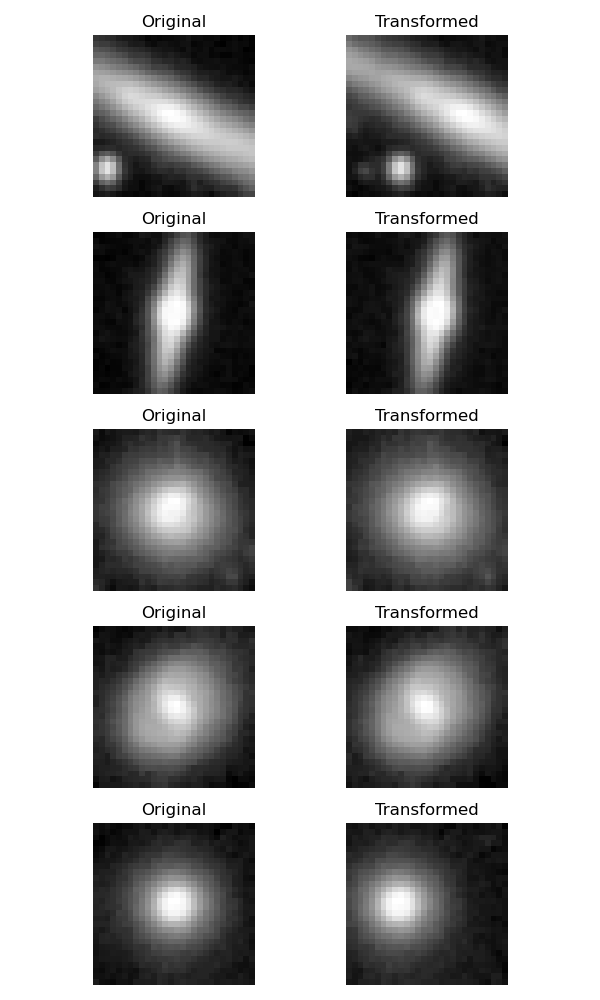
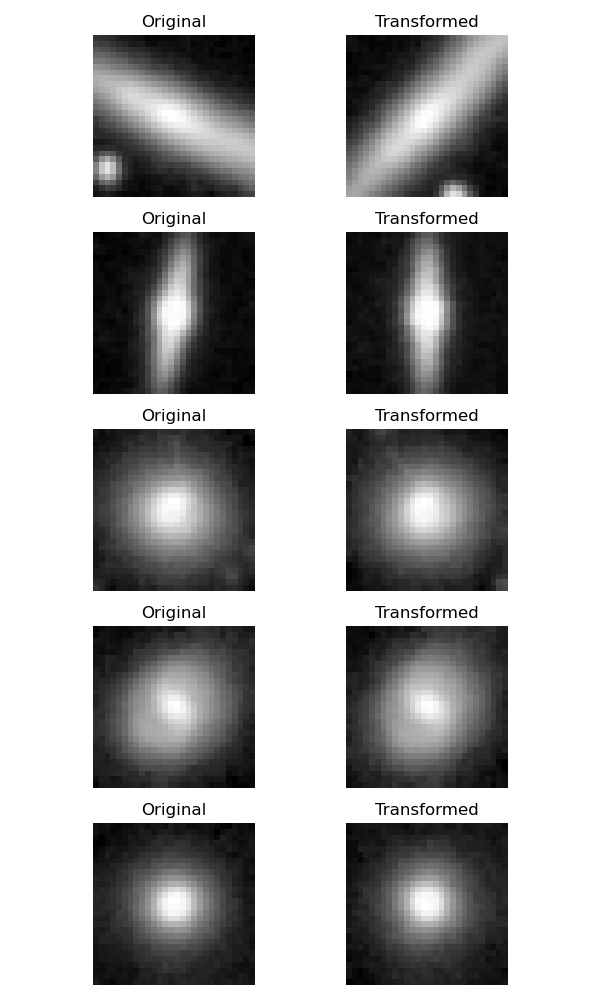
galaxy plotting and image saving final

diff --git a/model/model.py b/model/model.py
@@ -1,5 +1,6 @@
 import numpy as np
 import torch
+import os
 import torch.nn as nn
 import torch.nn.functional as F
 import torchvision
@@ -122,7 +123,8 @@ class EncoderLieTDecoder(BaseModel):
 
         self.i = 0
 
-    def forward(self, x, epsilon=0, tMax=0, zTest=False):
+    def forward(self, x, epsilon=0, tMax=0, zTest=False, out_path=None):
+        self.out_path = out_path
         # Normalize a vector by dividing by its norm:
         a_norm = torch.norm(self.a, p=2)
         a_normed = self.a / a_norm
@@ -146,9 +148,9 @@ class EncoderLieTDecoder(BaseModel):
             t = self.t(torch.cat((x,y), dim=1))
             t = t.squeeze()
 
-        elif epsilon != 0 and tMax == 0 and self.i < 1:
+        elif epsilon != 0 and tMax == 0:
             t = epsilon * torch.ones(x.size(0)).to("cuda:0")
-        elif tMax > 0 and epsilon == 0 and self.i < 1:
+        elif tMax > 0 and epsilon == 0:
             # tMax sets the maximum value of t in the interval [-tMax, tMax]
             # in which the number of steps agrees with the batch size:
             t = torch.linspace(-tMax, tMax, x.size(0)).to("cuda:0")
@@ -175,7 +177,7 @@ class EncoderLieTDecoder(BaseModel):
         # field form of the generator G) on the gaussian blob. 
 
         if zTest and self.i < 1:
-            ground_truth_a = torch.tensor([1, 0, 0,0,0,0], device=self.a.device, dtype=torch.float32)
+            ground_truth_a = torch.tensor([0, 0, -1,0,1,0], device=self.a.device, dtype=torch.float32)
         
             # Calculate G loss
             g_loss = self.calculate_g_loss(ground_truth_a)
@@ -189,8 +191,8 @@ class EncoderLieTDecoder(BaseModel):
                 print(f"  Non-Affine MSE: {g_loss['g_nonaffine_mse']:.4f} (Neg: {g_loss['neg_g_nonaffine_mse']:.4f})")
 
             # Visualize the generator field and eigenvectors
-            self.visualize(z, z_t, t, a_normed, ground_truth_a, plot_eigen=False)
-            self.plot_patches(z, z_t, t, ground_truth_a)
+            self.visualize(z, z_t, t, a_normed, ground_truth_a, plot_eigen=False, out_path=self.out_path)
+            self.plot_patches(z, z_t, t, ground_truth_a, out_path=self.out_path)
             self.i += 1
         ################################    
         x_t = x_t.view(data_shape)
@@ -373,7 +375,7 @@ class EncoderLieTDecoder(BaseModel):
             'neg_g_nonaffine_mse': neg_g_nonaffine_mse
         }
 
-    def visualize(self, z, z_t, t, a_normed, ground_truth_a, plot_eigen=False):
+    def visualize(self, z, z_t, t, a_normed, ground_truth_a, plot_eigen=False, out_path=None):
         # Generator visualization
         grid_size = 10
         # Get d from square root of latent dimension
@@ -424,19 +426,45 @@ class EncoderLieTDecoder(BaseModel):
         min_g_mse = [g_loss['g_mse'], g_loss['neg_g_mse']][argmin_g]
         min_drift_mse = [g_loss['g_drift_mse'], g_loss['neg_g_drift_mse']][argmin_g]
         min_diffusion_mse = [g_loss['g_diff_mse'], g_loss['neg_g_diff_mse']][argmin_g]
-
+        is_complex = np.any(np.iscomplex(eigenvalues))
         # Add MSE information to the title
-        title_info = (
-            f"MSE: {min_g_mse:.4f}, Drift: {min_drift_mse:.4f}, Diff.: {min_diffusion_mse:.4f}"
-        )
-        plt.title(f"{title_info}")
+        # --- BEGIN PATCH: Replace TODO title with discriminant/trace/det logic ---
+        trace = np.trace(diffusion)
+        det = np.linalg.det(diffusion)
+        discriminant = trace**2 - 4 * det
+
+        if det < 0:
+            desc = "Saddle point (real eigs)"
+        elif discriminant < 0:
+            if trace < 0:
+                desc = "Spiral sink (complex eigs)"
+            elif trace > 0:
+                desc = "Spiral source (complex eigs)"
+            else:
+                desc = "Center (circular flow)"
+        else:
+            if trace > 0:
+                desc = "Unstable node (real eigs)"
+            elif trace < 0:
+                desc = "Stable node (real eigs)"
+            else:
+                desc = "Degenerate node / shear"
+
+        plt.title(desc, fontsize=12)
+        # --- END PATCH ---
 
         # plt.title("Generator Vector Field with Eigenvectors")
         plt.xlabel("X")
         plt.ylabel("Y")
         plt.grid(True)
         # plt.legend(loc='upper left', fontsize=8)
-        plt.show()
+        if out_path is not None:
+            os.makedirs(out_path, exist_ok=True)
+            filename = 'visualize.png'  # or 'patches.png', depending on the function
+            plt.savefig(os.path.join(out_path, filename), bbox_inches='tight')
+            plt.close()
+        else:
+            plt.show()
 
     def taylor_loss(self, combined_data, order=1):
         # Normalize a vector by dividing by its norm:
@@ -477,12 +505,12 @@ class EncoderLieTDecoder(BaseModel):
 
         return x_t, y
     
-    def plot_patches(self, z, z_t, t, ground_truth_a=None):
+    def plot_patches(self, z, z_t, t, ground_truth_a=None, out_path=None):
         latent_dim_sqrt = int(np.sqrt(self.latent_dim))
         print(z.shape, z_t.shape, t.shape)
 
         # Initialize the figure with 6 rows and 11 columns
-        fig, axs = plt.subplots(6, 11, figsize=(20, 12))  # Adjusted height for better paper fit
+        fig, axs = plt.subplots(6, 11, figsize=(20, 9))  # Adjusted height for better paper fit
 
         # Loop over the first 11 values to display z and z_t patches
         for j in range(11):
@@ -490,7 +518,7 @@ class EncoderLieTDecoder(BaseModel):
             z_plot = z[j, 0].view(latent_dim_sqrt, latent_dim_sqrt)
             axs[0, j].imshow(z_plot.detach().cpu().numpy(), cmap='viridis')
             axs[0, j].axis('off')
-            axs[0, j].set_title(f't = {t[j].item():.2f}', fontsize=8)
+            axs[0, j].set_title(f't = {t[j].item():.2f}', fontsize=14)
 
             # Plot the z_t patch in the second row
             z_t_plot = z_t[j, 0].view(latent_dim_sqrt, latent_dim_sqrt)
@@ -535,19 +563,23 @@ class EncoderLieTDecoder(BaseModel):
             axs[5, j].imshow(z_t_temp.view(latent_dim_sqrt, latent_dim_sqrt).detach().cpu().numpy(), cmap='viridis')
             axs[5, j].axis('off')
 
-        # Add vertical labels centered on rows and closer to the grid
-        fig.text(0.02, 0.88, r'$\mathbf{z}_0$', va='center', ha='center', rotation='vertical', fontsize=12)
-        fig.text(0.02, 0.72, r'$\mathbf{z}_t$', va='center', ha='center', rotation='vertical', fontsize=12)
+        row_labels = [r"$\mathbf{z}$", r"$\mathbf{z}_t$", "Learnt TF\n(line)", "GT TF\n(line)", "Learnt TF\n(blob)", "GT TF\n(blob)"]
 
-        fig.text(0.02, 0.56, 'learnt TF\n(line)', va='center', ha='center', rotation='vertical', fontsize=12)
-        fig.text(0.02, 0.40, 'GT TF\n(line)', va='center', ha='center', rotation='vertical', fontsize=12)
 
-        fig.text(0.02, 0.24, 'learnt TF\n(blob)', va='center', ha='center', rotation='vertical', fontsize=12)
-        fig.text(0.02, 0.08, 'GT TF\n(blob)', va='center', ha='center', rotation='vertical', fontsize=12)
+        for i, label in enumerate(row_labels):
+            axs[i, 0].text(-0.2, 0.5, label,
+                        transform=axs[i, 0].transAxes,
+                        fontsize=14, va='center', ha='right', rotation=90)
 
         # Adjust layout and display
-        plt.tight_layout(rect=[0.05, 0, 1, 1])  # Adjust rect to bring labels closer
-        plt.show()
+        fig.subplots_adjust(left=0.1, right=0.99, top=0.95, bottom=0.05, hspace=0.08, wspace=0.05)
+        if out_path is not None:
+            os.makedirs(out_path, exist_ok=True)
+            filename = 'patches.png'
+            plt.savefig(os.path.join(out_path, filename), bbox_inches='tight')
+            plt.close()
+        else:
+            plt.show()
 
 
 
@@ -670,9 +702,9 @@ class EncoderLieMulTDecoder(BaseModel):
             out_t= self.t(torch.cat((x,y), dim=1))
             t, t2, t12 = out_t[:,0], out_t[:,1], out_t[:,2]
 
-        elif epsilon != 0 and tMax == 0 and self.i < 1:
+        elif epsilon != 0 and tMax == 0:
             t = epsilon * torch.ones(x.size(0)).to("cuda:0")
-        elif tMax > 0 and epsilon == 0 and self.i < 1:
+        elif tMax > 0 and epsilon == 0:
             # tMax sets the maximum value of t in the interval [-tMax, tMax]
             # in which the number of steps agrees with the batch size:
             t = torch.linspace(-tMax, tMax, x.size(0)).to("cuda:0")

diff --git a/test_tze.py b/test_tze.py
@@ -11,9 +11,9 @@ import matplotlib.pyplot as plt
 from parse_config import ConfigParser
 
 
-def main(config):
+def main(config, output_dir='images'):
     logger = config.get_logger('test')
-
+    out_dir = output_dir
     # setup data_loader instances
     data_loader = getattr(module_data, config['data_loader']['type'])(
         config['data_loader']['args']['data_dir'],
@@ -25,7 +25,7 @@ def main(config):
         tf_range=config['data_loader']['args']['tf_range']
     )
 
-    epsilon = 0
+    epsilon = 0.0
 
     data_size = np.prod(data_loader.dataset.images.data[0].shape)
 
@@ -72,7 +72,7 @@ def main(config):
             combined = torch.cat((data, target), 1)
             #####################################
 
-            output, exptG, t = model(combined, epsilon=epsilon, zTest=True)
+            output, exptG, t = model(combined, epsilon=epsilon, zTest=True, out_path=out_dir)
             print("t.shape:", t.shape)
             # Add output to all_output tensor:
             all_output = torch.cat((all_output, output), 0)
@@ -90,8 +90,8 @@ def main(config):
             loss = loss_fn(output, target, data, exptG, combined, config, model)
             batch_size = data.shape[0]
             total_loss += loss.item() * batch_size
-            for i, metric in enumerate(metric_fns):
-                total_metrics[i] += metric(output, target) * batch_size
+            # for i, metric in enumerate(metric_fns):
+            #     total_metrics[i] += metric(output, target) * batch_size
 
     #### EPSILON TEST ####
     # If epsilon is non-zero, then we need to test the model with epsilon
@@ -132,10 +132,10 @@ def main(config):
         # plot both G_rot and G_est:
         # import matplotlib.pyplot as plt
         plt.imshow(G_rot.detach().cpu().numpy(), cmap="seismic", vmin=-1, vmax=1)
-        plt.savefig("images/G_rot.png")
+        plt.savefig(f"{out_dir}/G_rot.png")
         plt.close()
         plt.imshow(G_est, cmap="seismic", vmin=-1, vmax=1)
-        plt.savefig("images/G_est.png")
+        plt.savefig(f"{out_dir}/G_est.png")
         plt.close()
 
         idd = 1
@@ -174,7 +174,7 @@ def main(config):
             for ax in axs.flat:
                 ax.label_outer()
 
-            plt.savefig(f"images/sample_T_{T:.2f}.png")
+            plt.savefig(f"{out_dir}/sample_T_{T:.2f}.png")
             plt.close()
 
         
@@ -209,6 +209,8 @@ if __name__ == '__main__':
                       help='path to latest checkpoint (default: None)')
     args.add_argument('-d', '--device', default=None, type=str,
                       help='indices of GPUs to enable (default: all)')
+    args.add_argument('--output_dir', default='images', type=str, help='Directory to save images')
 
+    parsed_args = args.parse_args()
     config = ConfigParser.from_args(args)
-    main(config)
+    main(config, output_dir=parsed_args.output_dir)

diff --git a/test_tze_plots.py b/test_tze_plots.py
@@ -25,11 +25,12 @@ def set_random_seed(seed=42):
         torch.cuda.manual_seed_all(seed)
 
 
-def main(config):
+def main(config, output_dir='images'):
     # Set a random seed
     set_random_seed(42)
     logger = config.get_logger('test')
-    out_dir = config.get("output_dir", "images")
+    out_dir = output_dir
+
     os.makedirs(out_dir, exist_ok=True)
 
     epsilon = 0  # Adjustable value for epsilon
@@ -136,7 +137,7 @@ def plot_sample_pair_and_histogram(data, target, output, model, all_t, aligned_t
     output_img = output[sample_idx].view(img_size, img_size).detach().cpu().numpy()
 
     # Create figure with gridspec for wider histogram
-    fig = plt.figure(figsize=(18, 2.8))
+    fig = plt.figure(figsize=(14, 2.8))
     gs = fig.add_gridspec(1, 6, width_ratios=[1, 1, 1, 1, 1.5, 0.1])
     axes = [fig.add_subplot(gs[0, i]) for i in range(5)]
     fig.subplots_adjust(wspace=0.4)
@@ -318,11 +319,12 @@ def generate_analysis_plots(data, target, output, model, all_t, aligned_t_values
 
 
 if __name__ == '__main__':
-    args = argparse.ArgumentParser(description='PyTorch Template')
+    args = argparse.ArgumentParser(description='PyTorch')
     args.add_argument('-c', '--config', default=None, type=str, help='Config file path')
     args.add_argument('-r', '--resume', default=None, type=str, help='Path to checkpoint')
     args.add_argument('-d', '--device', default=None, type=str, help='GPU indices to enable')
-    args.add_argument('-o', '--output_dir', default='images', type=str, help='Output directory for images')
+    args.add_argument('--output_dir', default='images', type=str, help='Directory to save images')
 
+    parsed_args = args.parse_args()
     config = ConfigParser.from_args(args)
-    main(config)
+    main(config, output_dir=parsed_args.output_dir)

diff --git a/train.py b/train.py
@@ -77,7 +77,7 @@ def main(config):
 
 
 if __name__ == '__main__':
-    args = argparse.ArgumentParser(description='PyTorch Template')
+    args = argparse.ArgumentParser(description='PyTorch')
     args.add_argument('-c', '--config', default="config.json", type=str,
                       help='config file path (default: None)')
     args.add_argument('-r', '--resume', default=None, type=str,
